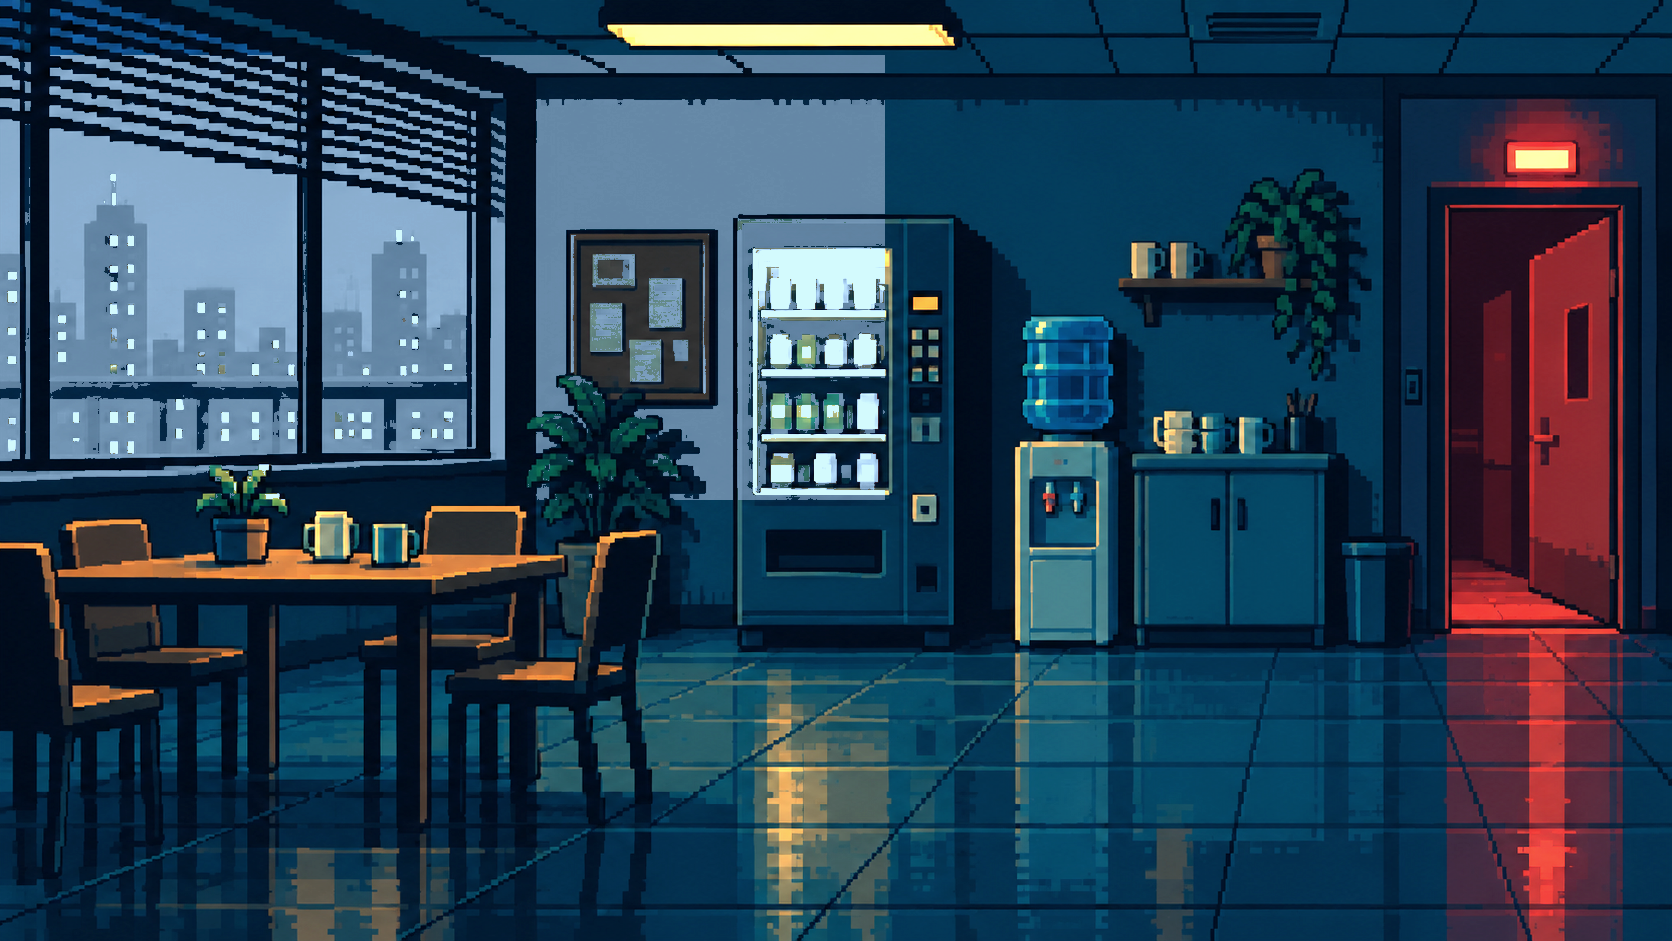
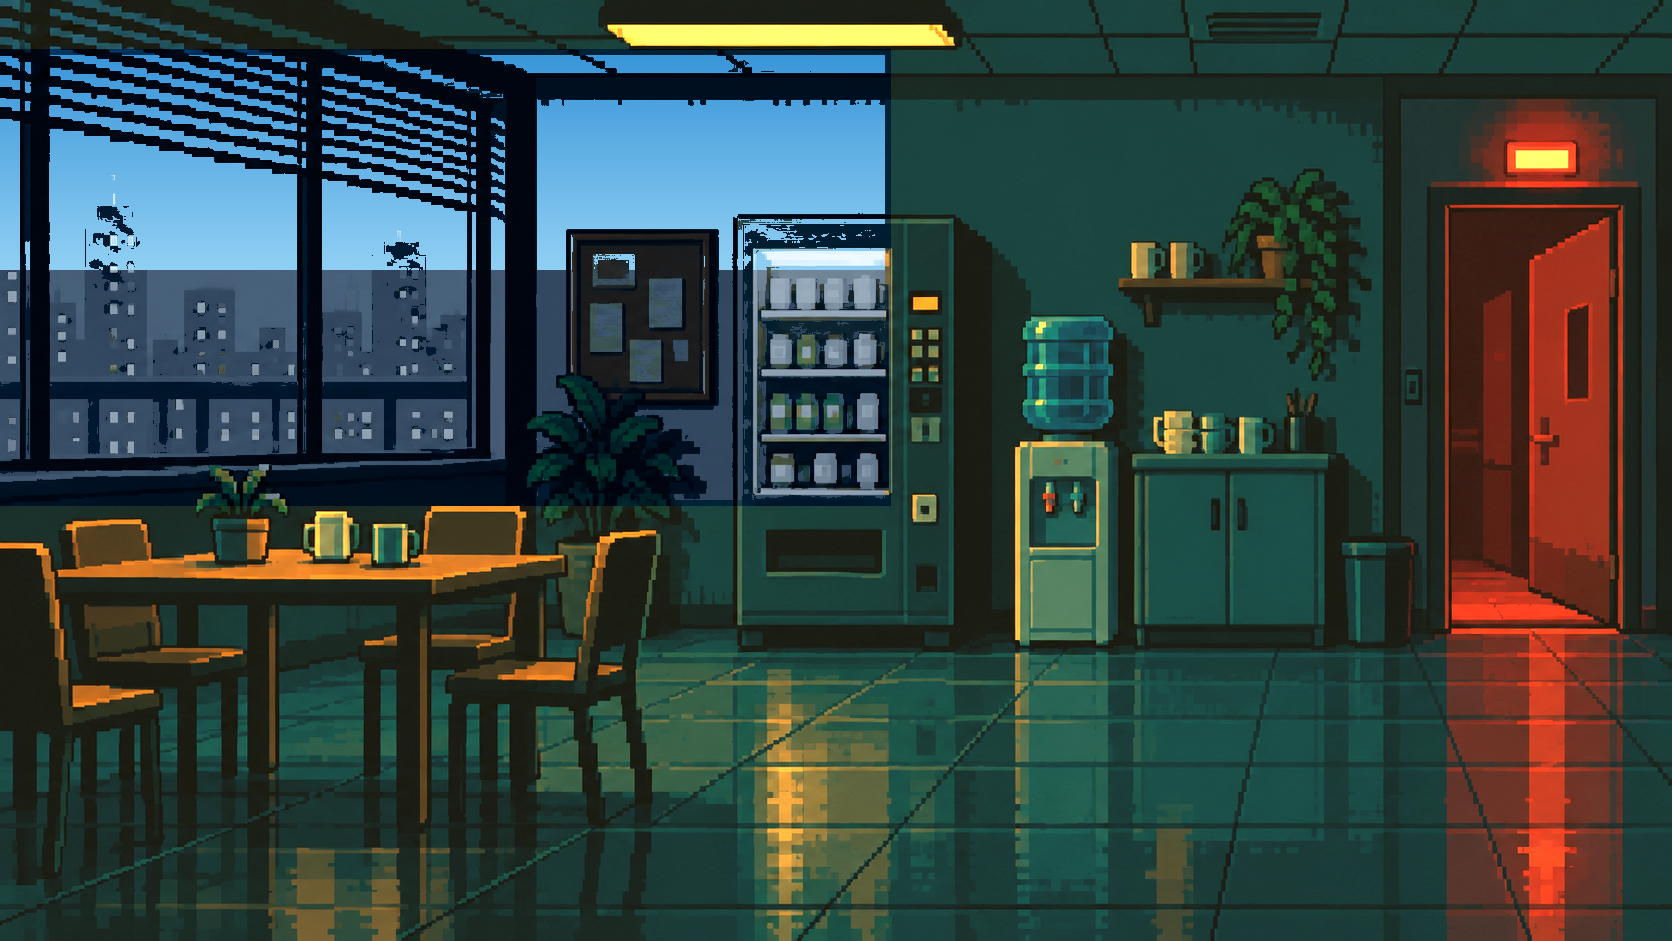
背景真蓝天统一；角色立绘升级；UI 默认亮色；BGM 明快化
背景（所有场景白天都是真蓝天，室内提亮去蓝调）：
- 茶水间/会议室/主管办公室：v3 重绘——天空带真蓝天渐变（白云只在
  真正亮的像素），城市带哑光剪影，窗口外室内分通道提亮去夜蓝
- 会议室窗口矩形扩大，消除左侧橙带；残留橙色像素扫描为 0
- 卫生间：弃用居民楼感的 weather-01 楼梯间，改用办公楼楼梯间夜景
  重绘的 stairwell-day.png（蓝天+楼群，室内保持办公楼质感）
- Ken Burns 改为恒定 1.04 缩放+缓慢平移，减少缩放重采样发糊

角色（弃用粗糙手绘，改为现有高质量立绘的 HSV 调色改造，保留原细节）：
- 吴阿姨 <- 何姐立绘：灰发 + 茶绿工装
- 老宋 <- 小吴立绘：灰白短发 + 灰橄榄衬衫
- 秦董 <- 周主管立绘：银发 + 金棕领带（会议室常驻）

UI 与音乐（去恐怖感，明快解压）：
- 默认主题改为亮色（档案纸白+暖色），深色仍可通过按钮切换
- BGM：慢板五声音阶音乐盒 -> C 大调轻快 300ms 循环 + 三角波主旋律
  + 低音线；移除 100Hz 日光灯哼鸣，换 C3/E3/G3 温暖底和弦；
  环境噪改轻白昼噪

验证：sound.js 与内联脚本 node --check 通过；jsdom 冒烟 0 错误
（六地点白天背景全部正确；工位=[林棠,小吴,阿伟] 茶水间=[何姐,阿伟,吴阿姨]
天台=[老宋] 会议室=[秦董]）

diff --git a/sound.js b/sound.js
@@ -59,38 +59,44 @@ const Sfx={
   }catch(e){}
  },
  /* ---------- 办公室环境音 + 音乐盒 ---------- */
- /* 旋律：C 大调五声音阶慢板，420ms/拍，16 拍一循环（0=休止） */
- MELODY:[523.25,0,659.25,0,783.99,0,659.25,523.25,0,587.33,0,698.46,0,880,0,783.99],
+ /* 旋律：C 大调轻快循环，300ms/步，16 步一循环（0=休止）——明快解压 */
+ MELODY:[523.25,659.25,783.99,659.25,523.25,587.33,659.25,0,698.46,659.25,587.33,523.25,587.33,659.25,587.33,523.25],
+ BASS:[130.81,0,174.61,0,130.81,0,196.00,0,174.61,0,130.81,0,146.83,0,196.00,0],
  startAmb(){
   if(!this.amb||this._ambT)return;
   this.init();if(!this.ctx)return;
   try{
    if(this.ctx.state==="suspended")this.ctx.resume().catch(()=>{});
    const ctx=this.ctx,nodes=[];
-   /* 房间底噪：低通棕色噪声，极低音量 */
+   /* 房间底噪：极轻白昼噪（低通，像窗外的白天气流） */
    const nb=ctx.createBuffer(1,ctx.sampleRate*2,ctx.sampleRate);
-   const nc=nb.getChannelData(0);let last=0;
-   for(let i=0;i<nc.length;i++){last=(last+(Math.random()*2-1)*.02);nc[i]=last*.5}
+   const nc=nb.getChannelData(0);
+   for(let i=0;i<nc.length;i++)nc[i]=(Math.random()*2-1)*.4;
    const ns=ctx.createBufferSource();ns.buffer=nb;ns.loop=true;
-   const nf=ctx.createBiquadFilter();nf.type="lowpass";nf.frequency.value=420;
-   const ng=ctx.createGain();ng.gain.value=.014;
+   const nf=ctx.createBiquadFilter();nf.type="lowpass";nf.frequency.value=700;
+   const ng=ctx.createGain();ng.gain.value=.006;
    ns.connect(nf);nf.connect(ng);ng.connect(ctx.destination);ns.start();
    nodes.push(ns,ng);
-   /* 日光灯哼鸣 */
-   const hum=ctx.createOscillator(),hg=ctx.createGain();
-   hum.type="sine";hum.frequency.value=100;hg.gain.value=.004;
-   hum.connect(hg);hg.connect(ctx.destination);hum.start();
-   nodes.push(hum,hg);
+   /* 温暖底和弦：C3/E3/G3 正弦，极轻 */
+   [130.81,164.81,196.00].forEach(f=>{
+    const o=ctx.createOscillator(),og=ctx.createGain();
+    o.type="sine";o.frequency.value=f;og.gain.value=.007;
+    o.connect(og);og.connect(ctx.destination);o.start();
+    nodes.push(o,og);
+   });
    /* 音乐盒 + 随机键盘敲击 */
    this._step=0;
    this._ambT=setInterval(()=>{
     try{
      if(this.ctx.state!=="running")return;
-     const f=this.MELODY[this._step%16];this._step++;
-     if(f){this.tone(f,.5,"sine",.038);this.tone(f*2,.3,"sine",.012,.02)}
-     if(Math.random()<.16)this.noise(.05,.013+Math.random()*.01,.01,.8+Math.random()*.5);
+     const i=this._step%16;this._step++;
+     const f=this.MELODY[i];
+     if(f){this.tone(f,.32,"triangle",.042);this.tone(f*2,.22,"sine",.012,.02)}
+     const bf=this.BASS[i];
+     if(bf)this.tone(bf,.5,"sine",.05);
+     if(Math.random()<.1)this.noise(.04,.01,.01,.9+Math.random()*.4);
     }catch(e){}
-   },420);
+   },300);
    this._ambNodes=nodes;
   }catch(e){this._ambT=null;this._ambNodes=null}
  },

diff --git a/game.html b/game.html
@@ -95,7 +95,7 @@ html.light .scene{background-color:#d8cba8;filter:sepia(.22) saturate(.85)}
 .scene.night{filter:brightness(.6) saturate(.85)}
 /* ============ 浮沉记打磨：动画 ============ */
 .scene-bg{position:absolute;inset:0;background:center/cover no-repeat;image-rendering:pixelated;z-index:0;animation:kb 46s ease-in-out infinite alternate}
-@keyframes kb{from{transform:scale(1)}to{transform:scale(1.06) translate(-1.2%,-1%)}}
+@keyframes kb{from{transform:scale(1.04) translate(0,0)}to{transform:scale(1.04) translate(-1%,-0.7%)}}
 .scene-fade{position:absolute;inset:0;background:center/cover no-repeat;image-rendering:pixelated;z-index:1;opacity:0;pointer-events:none;transition:opacity .9s ease}
 .scene-fade.on{opacity:1;transition:none}
 .daycard{position:fixed;inset:0;display:flex;flex-direction:column;align-items:center;justify-content:center;background:rgba(10,16,22,.92);z-index:60;pointer-events:none;opacity:0}
@@ -478,7 +478,7 @@ html.light ::-webkit-scrollbar-thumb{background:#b5a67f}
  .b2{padding:14px 12px}
 }
 </style>
-<script>try{if(localStorage.getItem("officeMythTheme")==="light")document.documentElement.classList.add("light")}catch(e){}</script>
+<script>try{if(localStorage.getItem("officeMythTheme")!=="dark")document.documentElement.classList.add("light")}catch(e){}</script>
 </head>
 <body>
 <main id="game" class="boot">
@@ -623,7 +623,7 @@ const LOCS={
  meeting:{name:"会议室",bg:"assets/pixel/meeting-room-day.png",night:"assets/pixel/meeting-room.png",horrorBg:"assets/pixel/meeting-room-night.png"},
  boss:{name:"主管办公室",bg:"assets/pixel/expansion-01/manager-office-day.png",night:"assets/pixel/expansion-01/manager-office.png"},
  roof:{name:"天台",bg:"assets/pixel/weather-01/rooftop-day-clear.png",horrorBg:"assets/pixel/expansion-01/rooftop-night.png"},
- wc:{name:"卫生间",bg:"assets/pixel/weather-01/stairwell-day-clear.png"},
+ wc:{name:"卫生间",bg:"assets/pixel/expansion-01/stairwell-day.png"},
  lobby:{name:"楼下大堂",bg:"assets/pixel/weather-01/lobby-day-clear.png",night:"assets/pixel/expansion-01/lobby-night.png",horrorBg:"assets/pixel/expansion-01/lobby-night.png"},
  security:{name:"监控室",bg:"assets/pixel/expansion-02/security-room.png",horror:true},
  archive:{name:"档案室",bg:"assets/pixel/records-room.png",horror:true},
